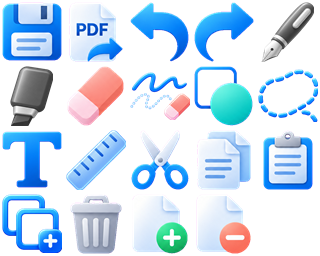
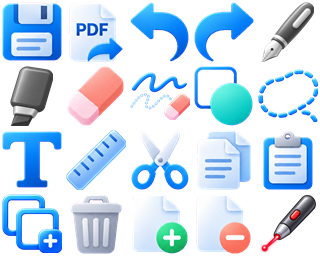
Add a temporary pen laser pointer with adjustable trail duration

Changed region(s): [[0.8125, 0.75, 1.0, 1.0]]

diff --git a/src/render/Overlay.cpp b/src/render/Overlay.cpp
@@ -1,5 +1,6 @@
 #include "render/Overlay.h"
 
+#include <Windows.h>
 #include <d2d1_1.h>
 #include <d2d1_1helper.h>
 
@@ -40,9 +41,30 @@ namespace inkpages::detail
         Change([&](OverlayContent& c) { c.shape = std::move(points); c.shapeColor = color; c.shapeWidth = width; });
     }
 
-    OverlayContent OverlayModel::Get() const
+    PointF OverlayModel::AddLaser(PointF from, std::vector<PointF> const& points, float width, int seconds)
+    {
+        auto duration = static_cast<uint64_t>(std::clamp(seconds, 1, 10)) * 1000;
+        auto expires = GetTickCount64() + duration;
+        Change([&](OverlayContent& c) {
+            for (auto to : points)
+            {
+                c.laser.push_back({ from, to, width, expires, duration });
+                from = to;
+            }
+        });
+        return from;
+    }
+
+    void OverlayModel::ClearLaser()
+    {
+        Change([](OverlayContent& c) { c.laser.clear(); });
+    }
+
+    OverlayContent OverlayModel::Get()
     {
         std::scoped_lock guard(lock);
+        content.now = GetTickCount64();
+        std::erase_if(content.laser, [&](LaserSegment const& segment) { return segment.expires <= content.now; });
         return content;
     }
 
@@ -98,6 +120,11 @@ namespace inkpages::detail
             }
         }
         for (PointF p : c.shape) Grow(bounds, any, p, c.shapeWidth + 2);
+        for (auto const& segment : c.laser)
+        {
+            Grow(bounds, any, segment.from, segment.width + 1);
+            Grow(bounds, any, segment.to, segment.width + 1);
+        }
         if (!any)
         {
             winrt::check_hresult(visual->SetContent(nullptr));
@@ -175,6 +202,22 @@ namespace inkpages::detail
                     }
                 }
                 dc->SetTransform(drawn);
+            }
+            if (!c.laser.empty())
+            {
+                winrt::com_ptr<ID2D1SolidColorBrush> red;
+                winrt::check_hresult(dc->CreateSolidColorBrush(D2D1::ColorF(1.f, 0.12f, 0.17f), red.put()));
+                auto caps = D2D1::StrokeStyleProperties(D2D1_CAP_STYLE_ROUND, D2D1_CAP_STYLE_ROUND);
+                winrt::com_ptr<ID2D1StrokeStyle> rounded;
+                winrt::check_hresult(graphics.d2dFactory->CreateStrokeStyle(caps, nullptr, 0, rounded.put()));
+                for (auto const& segment : c.laser)
+                {
+                    red->SetOpacity(static_cast<float>(segment.expires - c.now) / static_cast<float>(segment.duration));
+                    D2D1_POINT_2F from{ segment.from.x, segment.from.y }, to{ segment.to.x, segment.to.y };
+                    if (from.x == to.x && from.y == to.y)
+                        dc->FillEllipse(D2D1::Ellipse(to, segment.width / 2, segment.width / 2), red.get());
+                    else dc->DrawLine(from, to, red.get(), segment.width, rounded.get());
+                }
             }
             if (!c.shape.empty())
             {

diff --git a/src/surface/Surface.cpp b/src/surface/Surface.cpp
@@ -146,7 +146,7 @@ namespace inkpages::detail
                 if (page < 0) return cursorAt ? cursorAt(page, point) : nullptr;
                 RectF paper = layout.Page(page);
                 LPCWSTR toolCursor = selection->CursorAt({ paper.left + point.x, paper.top + point.y });
-                if (!toolCursor && currentTool == Tool::Select) toolCursor = IDC_CROSS;
+                if (!toolCursor && (currentTool == Tool::Select || currentTool == Tool::Laser)) toolCursor = IDC_CROSS;
                 if (!toolCursor && currentTool == Tool::Text) toolCursor = IDC_IBEAM;
                 if (!toolCursor) return cursorAt ? cursorAt(page, point) : nullptr;
                 if (cursorAt) cursorAt(-1, {}); // close the app's link tooltip while the tool owns the cursor
@@ -603,6 +603,7 @@ namespace inkpages::detail
             ink->Edits().Clear();
             ink->SetDarkPages(std::move(flags));
             ink->SetLayout(layout);
+            overlay.ClearLaser();
         });
         composition->SetPages(layout, papers, [this](int page, ID2D1DeviceContext* dc, RectF area) {
             if (drawUnderlay) drawUnderlay(page, dc, area);
@@ -696,7 +697,12 @@ namespace inkpages::detail
     void Surface::DrawOverlay()
     {
         overlayPending = false;
-        composition->Overlay().Draw(overlay.Get(), sheetScale > 0 ? sheetScale : scale);
+        auto content = overlay.Get();
+        bool fading = !content.laser.empty();
+        if (fading && !laserTimerActive) winrt::check_bool(SetTimer(window, LaserTimer, 40, nullptr) != 0);
+        if (!fading && laserTimerActive) winrt::check_bool(KillTimer(window, LaserTimer));
+        laserTimerActive = fading;
+        composition->Overlay().Draw(content, sheetScale > 0 ? sheetScale : scale);
         composition->Commit();
     }
 
@@ -794,7 +800,7 @@ namespace inkpages::detail
         bool pens = IsDrawingTool(state.tool);
         ToolSettings settings{ state.tool, state.wholeStrokeErasing, state.eraserRadius, state.selectMode,
             ShapeLook{ state.shape, state.color, state.width, state.tool == Tool::Highlighter },
-            state.recognizeShapes, pens && state.shapeEnabled, state.squareEraser };
+            state.recognizeShapes, pens && state.shapeEnabled, state.squareEraser, state.laserSeconds };
         PenLook look{ state.tool == Tool::Highlighter ? Tool::Highlighter : Tool::Pen, state.color, state.width };
         textStyle = state.text;
         currentTool = state.tool;

diff --git a/src/toolbar/ToolbarModel.cpp b/src/toolbar/ToolbarModel.cpp
@@ -32,6 +32,7 @@ namespace inkpages::detail
         b.push_back({ ButtonId::WholeStrokes, ToolbarSymbol::WholeStrokes, std::nullopt, Check, false });
         b.push_back({ ButtonId::Shape, ToolbarSymbol::Shapes, std::nullopt, CheckWithMenu, false });
         b.push_back({ ButtonId::Select, ToolbarSymbol::Select, std::nullopt, CheckWithMenu, true });
+        b.push_back({ ButtonId::Laser, ToolbarSymbol::Laser, {}, CheckWithMenu, false });
         b.push_back({ ButtonId::Text, ToolbarSymbol::Text, Palette::Pens[std::clamp(choices.textColor, 0, 9)], CheckWithMenu, false });
         b.push_back({ ButtonId::Ruler, ToolbarSymbol::Ruler, std::nullopt, CheckWithMenu, false });
         b.push_back({ ButtonId::Cut, ToolbarSymbol::Cut, std::nullopt, Command, true });
@@ -66,6 +67,7 @@ namespace inkpages::detail
         case ButtonId::WholeStrokes: return c.wholeStrokeErasing;
         case ButtonId::Select: return c.tool == Tool::Select;
         case ButtonId::Shape: return c.DrawingShape();
+        case ButtonId::Laser: return c.tool == Tool::Laser;
         case ButtonId::Text: return c.tool == Tool::Text;
         case ButtonId::Ruler: return s.ruler || s.protractor;
         default: return false;
@@ -110,6 +112,7 @@ namespace inkpages::detail
         case ButtonId::WholeStrokes: return t.wholeStrokeErase;
         case ButtonId::Select: return t.select;
         case ButtonId::Shape: return t.shapes;
+        case ButtonId::Laser: return t.laser;
         case ButtonId::Text: return t.text;
         case ButtonId::Ruler: return t.ruler;
         default: return TipOf(id, c, t, extensions); // the commands' tips are their names
@@ -141,6 +144,7 @@ namespace inkpages::detail
         case ButtonId::WholeStrokes: return t.wholeStrokeEraseTip;
         case ButtonId::Select: return t.selectTip;
         case ButtonId::Shape: return writeTip(t.shapesTip);
+        case ButtonId::Laser: return t.laser;
         case ButtonId::Text: return t.textTip;
         case ButtonId::Ruler: return t.rulerTip;
         case ButtonId::Cut: return t.cut;

diff --git a/src/model/Pens.cpp b/src/model/Pens.cpp
@@ -101,10 +101,10 @@ namespace inkpages
     std::string ToolChoices::Serialize() const
     {
         return std::format("pens={};highlighters={};eraser={};whole={};tool={};preset={};select={};shape={};recognize={};"
-            "text={}:{}:{};shapeEnabled={};squareEraser={}",
+            "text={}:{}:{};shapeEnabled={};squareEraser={};laserSeconds={}",
             Presets(pens), Presets(highlighters), eraserRadius, wholeStrokeErasing ? 1 : 0, static_cast<int>(tool), preset,
             static_cast<int>(selectMode), static_cast<int>(shape), recognizeShapes ? 1 : 0, textFont, textSize, textColor,
-            shapeEnabled ? 1 : 0, squareEraser ? 1 : 0);
+            shapeEnabled ? 1 : 0, squareEraser ? 1 : 0, laserSeconds);
     }
 
     ToolChoices ToolChoices::Parse(std::string const& text)
@@ -126,7 +126,9 @@ namespace inkpages
                     EraserSizes::Extent(EraserSizes::SquareHalfSides.back(), false));
             else if (key == "squareEraser" && Number(value, i)) c.squareEraser = i != 0;
             else if (key == "whole" && Number(value, i)) c.wholeStrokeErasing = i != 0;
-            else if (key == "tool" && Number(value, i) && i >= 0 && i <= 5) c.tool = static_cast<Tool>(i);
+            else if (key == "tool" && Number(value, i) && i >= 0 && i <= static_cast<int>(Tool::Laser)) c.tool = static_cast<Tool>(i);
+            else if (key == "laserSeconds" && Number(value, i) &&
+                std::find(LaserDurations.begin(), LaserDurations.end(), i) != LaserDurations.end()) c.laserSeconds = i;
             else if (key == "text") ParseText(value, c);
             else if (key == "select" && Number(value, i) && i >= 0 && i <= 1) c.selectMode = static_cast<SelectMode>(i);
             else if (key == "shape" && Number(value, i) && i >= 0 && i <= 3) c.shape = static_cast<ShapeKind>(i);

diff --git a/tests/ToolTests.cpp b/tests/ToolTests.cpp
@@ -1,13 +1,33 @@
 #include <gtest/gtest.h>
 
 #include <cmath>
+#include <chrono>
+#include <thread>
 
 #include "inkpages/model/Pens.h"
 #include "inkpages/model/StrokeEraser.h"
 #include "inkpages/model/UndoHistory.h"
+#include "render/Overlay.h"
 
 namespace inkpages::tests
 {
+    TEST(LaserTrail, EachSegmentExpiresAfterItsOwnDuration)
+    {
+        detail::OverlayModel overlay;
+        auto end = overlay.AddLaser({ 10, 12 }, { { 20, 22 }, { 30, 32 } }, 4, 1);
+        overlay.AddLaser(end, { { 40, 42 } }, 4, 5);
+        auto first = overlay.Get();
+        ASSERT_EQ(3u, first.laser.size());
+        EXPECT_EQ(20.f, first.laser[1].from.x);
+        EXPECT_EQ(30.f, first.laser[1].to.x);
+        std::this_thread::sleep_for(std::chrono::milliseconds(1050));
+        auto remaining = overlay.Get();
+        ASSERT_EQ(1u, remaining.laser.size());
+        EXPECT_EQ(40.f, remaining.laser.front().to.x);
+        overlay.ClearLaser();
+        EXPECT_TRUE(overlay.Get().laser.empty());
+    }
+
     // ---- PenWidths, InkWidth (ported from PenWidthsTests / SavePointTests)
 
     TEST(PenWidths, SavedWidthsGoToTheNearestStep)
@@ -93,6 +113,17 @@ namespace inkpages::tests
         EXPECT_EQ(Tool::Highlighter, back.tool);
         EXPECT_EQ(1, back.preset);
         EXPECT_TRUE(back.recognizeShapes);
+    }
+
+    TEST(ToolChoices, LaserAndItsDurationRoundTrip)
+    {
+        ToolChoices choices;
+        choices.tool = Tool::Laser;
+        choices.laserSeconds = 5;
+        auto restored = ToolChoices::Parse(choices.Serialize());
+        EXPECT_EQ(Tool::Laser, restored.tool);
+        EXPECT_EQ(5, restored.laserSeconds);
+        EXPECT_EQ(2, ToolChoices::Parse("laserSeconds=999").laserSeconds);
     }
 
     TEST(ToolChoices, MissingOrDamagedFieldsKeepTheirDefaults)

diff --git a/src/tools/ToolInput.cpp b/src/tools/ToolInput.cpp
@@ -206,6 +206,7 @@ namespace inkpages::detail
         {
         case Tool::Eraser:
         case Tool::Select:
+        case Tool::Laser:
         case Tool::Text: mode = InkInputProcessingMode::None; break;
         default: mode = settings.shapeEnabled ? InkInputProcessingMode::None : InkInputProcessingMode::Inking; break;
         }
@@ -295,6 +296,12 @@ namespace inkpages::detail
             eraser.Begin(at);
             overlay.SetEraser(at, settings.eraserRadius, settings.squareEraser);
         }
+        else if (settings.tool == Tool::Laser)
+        {
+            gesture = Gesture::Laser;
+            laserAt = at;
+            Move({ at });
+        }
         else if (settings.shapeEnabled)
         {
             gesture = Gesture::Shape;
@@ -346,6 +353,9 @@ namespace inkpages::detail
         switch (gesture)
         {
         case Gesture::Erase: eraser.MoveAlong(path); break;
+        case Gesture::Laser:
+            laserAt = overlay.AddLaser(laserAt, path, 4 / Zoom(), settings.laserSeconds);
+            break;
         case Gesture::Shape: shapes.Move(path.back()); break;
         case Gesture::Text: // how far the pen went: a drag is no text
             for (PointF p : path) textFarthest = std::max(textFarthest, std::abs(p.x - textPress.x) + std::abs(p.y - textPress.y));
@@ -366,6 +376,7 @@ namespace inkpages::detail
     {
         switch (gesture)
         {
+        case Gesture::Laser: Move({ at }); break;
         case Gesture::Erase:
             if (eraser.Running())
             {

diff --git a/src/toolbar/Toolbar.cpp b/src/toolbar/Toolbar.cpp
@@ -263,6 +263,7 @@ namespace inkpages
             state.shapeEnabled = choices.DrawingShape();
             state.recognizeShapes = choices.recognizeShapes;
             state.text = choices.Text();
+            state.laserSeconds = choices.laserSeconds;
             Tool look = choices.tool == Tool::Highlighter ? Tool::Highlighter : Tool::Pen;
             auto presets = look == Tool::Pen ? choices.PensOrDefault() : choices.HighlightersOrDefault();
             int index = IsDrawingTool(choices.tool) ? choices.preset : 0;
@@ -317,6 +318,7 @@ namespace inkpages
                 choices.ToggleShape(choices.shape);
                 Apply(true);
                 break;
+            case ButtonId::Laser: choose(Tool::Laser, choices.preset); break;
             case ButtonId::Text: choose(Tool::Text, choices.preset); break;
             case ButtonId::Ruler:
                 stencils.ruler = !stencils.ruler;
@@ -368,6 +370,7 @@ namespace inkpages
                 }
                 return;
             }
+            else if (id == ButtonId::Laser) next = LaserMenu(container, anchor, choices, colors);
             else if (id == ButtonId::Text) next = TextMenu(container, anchor, choices, texts, colors, darkPaperPreview);
             else if (id == ButtonId::Ruler)
             {

diff --git a/src/render/Overlay.h b/src/render/Overlay.h
@@ -8,6 +8,7 @@
 #include <dcomp.h>
 
 #include <functional>
+#include <cstdint>
 #include <mutex>
 #include <optional>
 #include <vector>
@@ -20,6 +21,13 @@ namespace inkpages::detail
 {
     struct Graphics;
 
+    struct LaserSegment
+    {
+        PointF from, to;
+        float width;
+        uint64_t expires, duration;
+    };
+
     struct OverlayContent
     {
         std::optional<PointF> circleAt;
@@ -30,6 +38,8 @@ namespace inkpages::detail
         std::vector<PointF> shape;
         Color shapeColor;
         float shapeWidth = 1;
+        std::vector<LaserSegment> laser;
+        uint64_t now = 0;
     };
 
     class OverlayModel
@@ -42,7 +52,9 @@ namespace inkpages::detail
         void SetLasso(std::vector<PointF> points);
         void SetFrame(std::optional<SelectionFrame> frame);
         void SetShape(std::vector<PointF> points, Color color, float width);
-        OverlayContent Get() const;
+        PointF AddLaser(PointF from, std::vector<PointF> const& points, float width, int seconds);
+        void ClearLaser();
+        OverlayContent Get();
 
     private:
         template <typename F> void Change(F&& f);

diff --git a/src/toolbar/ToolbarMenus.h b/src/toolbar/ToolbarMenus.h
@@ -19,6 +19,8 @@ namespace inkpages::detail
         std::optional<ToolbarColors> const& colors, bool darkPaper);
     std::optional<ToolChoices> RadiusMenu(HWND owner, RECT anchor, ToolChoices choices, ToolbarTexts const& texts, std::optional<ToolbarColors> const& colors);
     std::optional<ToolChoices> SelectModeMenu(HWND owner, RECT anchor, ToolChoices choices, ToolbarTexts const& texts, std::optional<ToolbarColors> const& colors);
+    std::optional<ToolChoices> LaserMenu(HWND owner, RECT anchor, ToolChoices choices,
+        std::optional<ToolbarColors> const& colors);
     std::optional<ToolChoices> TextMenu(HWND owner, RECT anchor, ToolChoices choices, ToolbarTexts const& texts,
         std::optional<ToolbarColors> const& colors, bool darkPaper);
     std::optional<ToolChoices> ShapeMenu(HWND owner, RECT anchor, ToolChoices choices, ToolbarTexts const& texts, std::optional<ToolbarColors> const& colors);

diff --git a/include/inkpages/Toolbar.h b/include/inkpages/Toolbar.h
@@ -49,6 +49,7 @@ namespace inkpages
         std::array<std::wstring, 4> shapeKinds{ L"Line", L"Arrow", L"Rectangle", L"Ellipse" };
         std::wstring recognizeShapes = L"Recognize drawn shapes";
         std::wstring text = L"Text";
+        std::wstring laser = L"Laser pointer";
         std::wstring textTip = L"Text: tap on the page to write (the keyboard types), tap a text to edit it, tap beside "
             L"it to finish. The arrow: font, size and color";
         std::wstring ruler = L"Ruler";
@@ -80,7 +81,7 @@ namespace inkpages
     enum class ToolbarSymbol
     {
         Save, ExportPdf, Undo, Redo, Pen, Highlighter, Eraser, WholeStrokes, Shapes, Select, Text, Ruler, Cut, Copy,
-        Paste, Duplicate, Delete, InsertPage, DeletePage
+        Paste, Duplicate, Delete, InsertPage, DeletePage, Laser
     };
 
     struct ToolbarButton

diff --git a/tests/ToolbarModelTests.cpp b/tests/ToolbarModelTests.cpp
@@ -16,7 +16,7 @@ namespace inkpages::tests
         for (auto const& b : buttons) ids.push_back(b.id);
         std::vector<int> expected{ ButtonId::Undo, ButtonId::Redo, ButtonId::Pen, ButtonId::Pen + 1, ButtonId::Pen + 2,
             ButtonId::Highlighter, ButtonId::Highlighter + 1, ButtonId::Eraser, ButtonId::WholeStrokes, ButtonId::Shape,
-            ButtonId::Select, ButtonId::Text, ButtonId::Ruler, ButtonId::Cut, ButtonId::Copy, ButtonId::Paste, ButtonId::Duplicate,
+            ButtonId::Select, ButtonId::Laser, ButtonId::Text, ButtonId::Ruler, ButtonId::Cut, ButtonId::Copy, ButtonId::Paste, ButtonId::Duplicate,
             ButtonId::Delete, ButtonId::Extension };
         EXPECT_EQ(expected, ids);
         EXPECT_EQ(Palette::Pens[1], buttons[3].bar.value()) << "the blue preset shows its color";

diff --git a/src/toolbar/ToolbarMenus.cpp b/src/toolbar/ToolbarMenus.cpp
@@ -244,6 +244,18 @@ namespace inkpages::detail
         return c;
     }
 
+    std::optional<ToolChoices> LaserMenu(HWND owner, RECT anchor, ToolChoices c, std::optional<ToolbarColors> const& colors)
+    {
+        std::vector<Item> items;
+        for (int seconds : ToolChoices::LaserDurations)
+            items.push_back({ std::to_wstring(seconds) + L" s", seconds == c.laserSeconds });
+        int chosen = Show(owner, anchor, items, colors);
+        if (chosen < 0) return std::nullopt;
+        c.laserSeconds = ToolChoices::LaserDurations[chosen];
+        c.tool = Tool::Laser;
+        return c;
+    }
+
     std::optional<ToolChoices> TextMenu(HWND owner, RECT anchor, ToolChoices c, ToolbarTexts const& t,
         std::optional<ToolbarColors> const& colors, bool darkPaper)
     {
